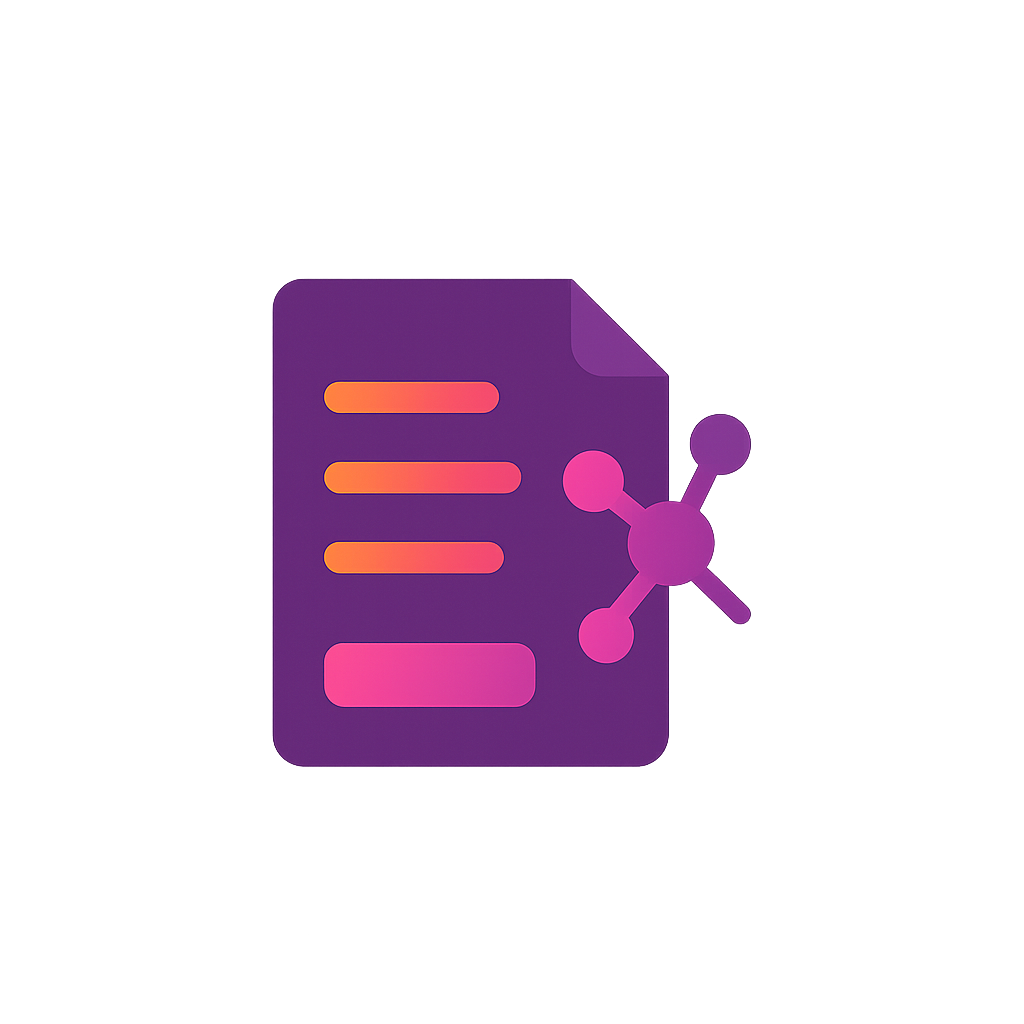
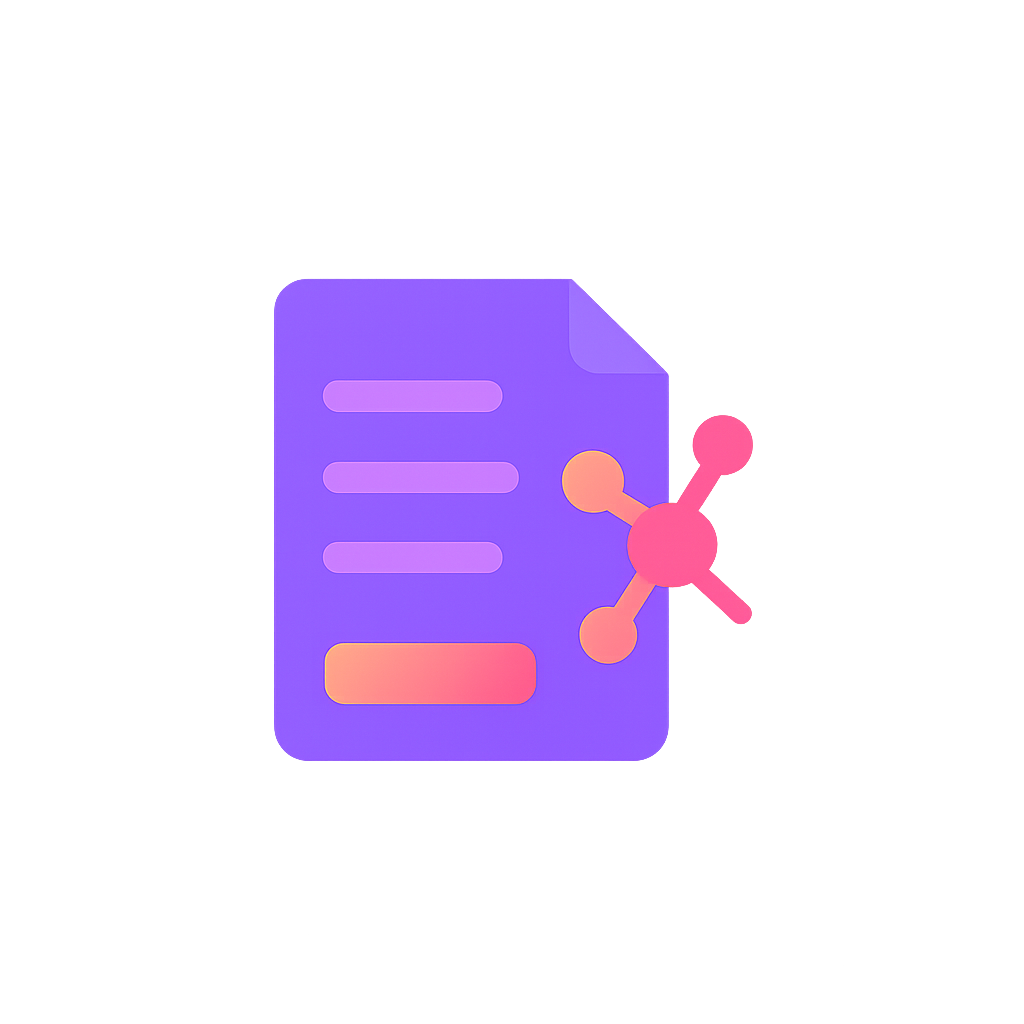
Navbar Changes

Changed region(s): [[0.25, 0.25, 0.75, 0.75]]

diff --git a/apps/frontend/src/index.css b/apps/frontend/src/index.css
@@ -82,36 +82,19 @@
   --chart-4: #fb7185;
   --chart-5: #fdba74;
 
-  /* Sidebar */
-  --sidebar: #0C111F;
-  --sidebar-foreground: #ED9E6F;
-  --sidebar-primary: #B66570;
-  --sidebar-primary-foreground: #0C111F;
-  --sidebar-accent: #80466E;
-  --sidebar-accent-foreground: #ED9E6F;
-  --sidebar-border: #512F5C;
-  --sidebar-ring: #ED9E6F;
-
-  /* StandOut Gradient Colors */
-  --standout-from: #ec4899;
-  --standout-to: #f97316;
-  /* Base Theme Colors */
-  --base-bg: #ffffff;
-  --base-fg: #000000;
-
-  --base-bg-10: color-mix(in srgb, var(--base-bg) 10%, transparent);
-  --base-bg-20: color-mix(in srgb, var(--base-bg) 20%, transparent);
-  --base-bg-30: color-mix(in srgb, var(--base-bg) 30%, transparent);
-  --base-bg-50: color-mix(in srgb, var(--base-bg) 50%, transparent);
-
-  --gradient-from: #2a003f;
-  --gradient-via: #19002a;
-  --gradient-to: #100018;
-
-  --gray-300: #d1d5db;
-  --gray-300-transparent: #d1d5db4d;
-
-  --meta-blue: #0081FB;
+  /* Sidebar - Glass-like with gradient overlay */
+  --sidebar: rgba(15, 23, 42, 0.8);
+  --sidebar-foreground: #e2e8f0;
+  --sidebar-primary: #818cf8;
+  --sidebar-primary-foreground: #0f172a;
+  --sidebar-accent: rgba(192, 132, 252, 0.3);
+  --sidebar-accent-foreground: #e2e8f0;
+  --sidebar-border: rgba(99, 102, 241, 0.3);
+  --sidebar-ring: #818cf8;
+  
+  /* StandOut Gradient Colors - Modern purple to orange */
+  --standout-from: #c084fc;
+  --standout-to: #fdba74;  
 }
 
 .dark {
@@ -147,131 +130,17 @@
   --chart-4: #fb7185;
   --chart-5: #fdba74;
 
-  --sidebar: #0C111F;
-  --sidebar-foreground: #ED9E6F;
-  --sidebar-primary: #B66570;
-  --sidebar-primary-foreground: #0C111F;
-  --sidebar-accent: #80466E;
-  --sidebar-accent-foreground: #ED9E6F;
-  --sidebar-border: #512F5C;
-  --sidebar-ring: #ED9E6F;
-  /* Base Theme Colors */
-  --base-bg: #000000;
-  --base-fg: #ffffff;
-
-  --base-bg-10: color-mix(in srgb, var(--base-bg) 10%, transparent);
-  --base-bg-20: color-mix(in srgb, var(--base-bg) 20%, transparent);
-  --base-bg-30: color-mix(in srgb, var(--base-bg) 30%, transparent);
-  --base-bg-50: color-mix(in srgb, var(--base-bg) 50%, transparent);
-
-  --gradient-from: #2a003f;
-  --gradient-via: #19002a;
-  --gradient-to: #100018;
-
-  --gray-300: #d1d5db;
-  --gray-300-transparent: #d1d5db4d;
-
-  --meta-blue: #0081FB;
+  --sidebar: rgba(15, 23, 42, 0.8);
+  --sidebar-foreground: #e2e8f0;
+  --sidebar-primary: #818cf8;
+  --sidebar-primary-foreground: #0f172a;
+  --sidebar-accent: rgba(192, 132, 252, 0.3);
+  --sidebar-accent-foreground: #e2e8f0;
+  --sidebar-border: rgba(99, 102, 241, 0.3);
+  --sidebar-ring: #818cf8;
 }
-
-.light {
-  /* Base & Foreground */
-  --background: #FEF8F4;
-  --foreground: #3A1F00;
-
-  /* Card & Popover */
-  --card: #FFFFFF;
-  --card-foreground: #3A1F00;
-
-  --popover: #FFFFFF;
-  --popover-foreground: #3A1F00;
-
-  /* Brand Colors */
-  --primary: #D95F4B;
-  --primary-foreground: #FFFFFF;
-
-  --secondary: #E6A875;
-  --secondary-foreground: #3A1F00;
-
-  --accent: #C28C6A;
-  --accent-foreground: #FFFFFF;
-
-  /* Muted & Border */
-  --muted: #F5E6DD;
-  --muted-foreground: #9C5B41;
-
-  /* Destructive & Misc */
-  --destructive: #D95F4B;
-  --border: #E6A875;
-  --input: #E6A875;
-  --ring: #D95F4B;
-
-  /* Charts */
-  --chart-1: #D95F4B;
-  --chart-2: #E6A875;
-  --chart-3: #C28C6A;
-  --chart-4: #9C5B41;
-  --chart-5: #FEF8F4;
-
-  /* Sidebar */
-  --sidebar: #FEF8F4;
-  --sidebar-foreground: #3A1F00;
-  --sidebar-primary: #D95F4B;
-  --sidebar-primary-foreground: #FFFFFF;
-  --sidebar-accent: #E6A875;
-  --sidebar-accent-foreground: #3A1F00;
-  --sidebar-border: #F5E6DD;
-  --sidebar-ring: #D95F4B;
-
-  /* Base Theme Colors */
-  --base-bg: #ffffff;
-  --base-fg: #000000;
-
-  --base-bg-10: color-mix(in srgb, var(--base-bg) 10%, transparent);
-  --base-bg-20: color-mix(in srgb, var(--base-bg) 20%, transparent);
-  --base-bg-30: color-mix(in srgb, var(--base-bg) 30%, transparent);
-  --base-bg-50: color-mix(in srgb, var(--base-bg) 50%, transparent);
-
-  --gradient-from: #FFF8F0;
-  --gradient-via: #FFECE0;
-  --gradient-to: #FFDFC8;
-
-  --gray-300: #d1d5db;
-  --gray-300-transparent: #d1d5db4d;
-
-  --meta-blue: #0081FB;
-}
-
-
-@layer base {
-  * {
-    @apply border-border outline-ring/50;
-  }
-
-  body {
-    @apply bg-background text-foreground;
-  }
-}
-
-@keyframes bubble {
-  0% {
-    transform: translateY(0) scale(1);
-    opacity: 0.3;
-  }
-
-  50% {
-    opacity: 0.6;
-  }
-
-  100% {
-    transform: translateY(-120vh) scale(1.2);
-    opacity: 0;
-  }
-}
-
-
-.animate-bubble {
-  animation-name: bubble;
-  animation-timing-function: linear;
-  animation-iteration-count: infinite;
+body, html {
+  height: 100%; /* important to cover full page */
+  margin: 0;
+  background: linear-gradient(to right, #0f172a, #581c87, #1e293b);
 }

diff --git a/apps/frontend/src/components/common/Navbar.tsx b/apps/frontend/src/components/common/Navbar.tsx
@@ -12,22 +12,27 @@ import { Button } from "@/components/ui/button";
 function Navbar() {
   return (
     <NavigationMenu>
-      <div className="flex items-center justify-between w-full px-4">
-        <div className="flex items-center">
+      <div
+        className="flex items-center justify-between w-full px-4 py-2 mt-2 bg-white/10 backdrop-blur-md border-b border-white/20 rounded-2xl shadow-lg">
+     
+        <div className="flex items-center gap-2">
           <motion.img
-            src='images/doclinIcon.png'
+            src="images/doclinIcon.png"
             alt="Doclin Icon"
             className="w-12 h-12 lg:w-15 lg:h-15 object-contain"
           />
-          <motion.p className="text-[var(--base-bg)] text-xl font-bold">
-            Doclin
-          </motion.p>
+          <motion.p className="text-white text-xl font-bold">Doclin</motion.p>
         </div>
         <NavigationMenuList className="flex-1 flex justify-center gap-6">
           {NAVBAR_MENU.map((item) => (
             <NavigationMenuItem key={item.href}>
               <NavigationMenuLink asChild>
-                <Link to={item.href}>{item.title}</Link>
+                <Link
+                  to={item.href}
+                  className="text-white hover:text-purple-300 transition"
+                >
+                  {item.title}
+                </Link>
               </NavigationMenuLink>
             </NavigationMenuItem>
           ))}

diff --git a/apps/frontend/src/components/ui/button.tsx b/apps/frontend/src/components/ui/button.tsx
@@ -24,7 +24,7 @@ const buttonVariants = cva(
           "bg-gradient-to-r [background-image:linear-gradient(to_right,var(--standout-from),var(--standout-to))] text-white hover:[background-image:linear-gradient(to_right,var(--standout-from),var(--standout-to)),linear-gradient(var(--muted),var(--muted))] hover:bg-blend-overlay",
         ghost: "bg-transparent text-popover-foreground hover:bg-white/10",
         lavender: "bg-chart-2 text-foreground hover:bg-chart-1",
-        snowFlake: "bg-[var(--base-bg)] text-[var(--accent)]",
+        snowFlake: "bg-white text-[var(--accent)]",
         destructive: "bg-destructive text-white hover:bg-destructive/90",
       },
       size: {

diff --git a/apps/frontend/src/components/ui/navigation-menu.tsx b/apps/frontend/src/components/ui/navigation-menu.tsx
@@ -129,7 +129,7 @@ function NavigationMenuLink({
     <NavigationMenuPrimitive.Link
       data-slot="navigation-menu-link"
       className={cn(
-        "bg-[var(--base-bg)] rounded-full text-[var(--base-fg)] p-auto flex flex-col gap-1 px-4 py-2 text-sm transition-all outline-none",
+        "bg-[var(--base-bg)] rounded-full text-white p-auto flex flex-col gap-1 px-4 py-2 text-sm transition-all outline-none",
         className
       )}
       {...props}
